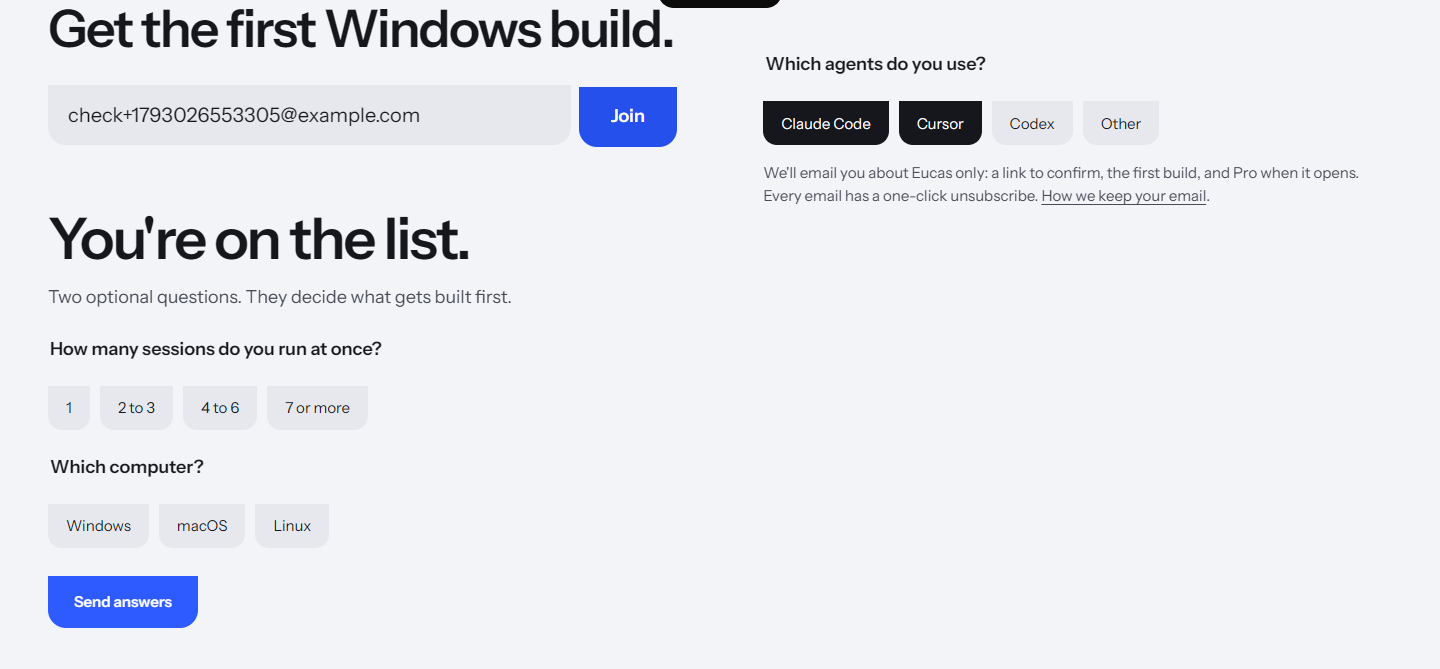
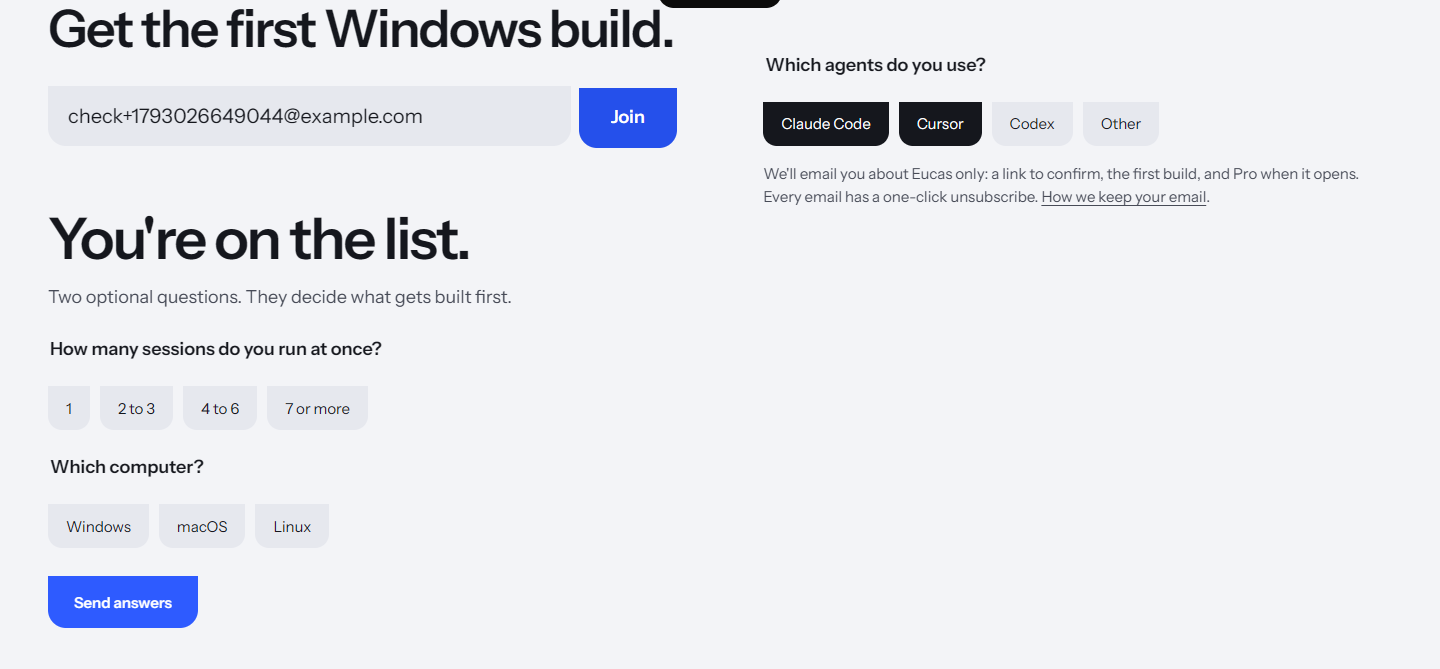
fix(landing): cut copy that repeats itself
- The promise sentence under the four limits (the list already says it).
- The locked rule band no longer lists the four again: "The four limits · Locked".
- "Your rules always decide first" once (Rules), "never writes code" once (hero), what the account holds once (the privacy line); the founders' FAQ answer keeps only what pricing doesn't say.

diff --git a/apps/landing/public/index.html b/apps/landing/public/index.html
@@ -88,7 +88,7 @@
 
 <!-- Proof: the notch's states, large, each on its own tile. -->
 <section class="states wrap" data-state="marker" aria-labelledby="states-title">
-  <ul class="board">
+  <ul class="board" data-ui>
     <li class="tile tile-head" data-rise><h2 id="states-title">Read your Euca at a glance.</h2></li>
     <li class="tile" data-rise><span class="tile-notch" data-ui aria-hidden="true"><span class="eyes" data-x="calm"><i></i><i></i></span></span><p><b>Calm.</b> Protected, nothing running. It follows your pointer and blinks.</p></li>
     <li class="tile" data-rise><span class="tile-notch" data-ui aria-hidden="true"><span class="eyes" data-x="focused"><i></i><i></i></span></span><p><b>Focused.</b> Your sessions are working. The eyes read left to right.</p></li>
@@ -136,7 +136,6 @@
         <li>A send</li>
         <li>A payment</li>
       </ul>
-      <p class="promise" data-rise>Eucas never auto-approves a delete, a push to your default branch, a send or a payment, and no rule can change that.</p>
       <p data-rise>Setup locks these four limits with one Windows admin prompt, where no agent or repo can change them. If a session starts deleting files in bulk, the tripwire stops it and shows you what went and how to get it back.</p>
     </div>
     <figure class="trip" data-rise>
@@ -172,8 +171,8 @@
     </li>
     <li class="band band-locked" data-band="ink">
       <div class="wrap band-in">
-        <div><p class="band-say">Ask me before a delete, a push, a send or a payment</p><p class="band-then" data-locked-text>Locked. No rule can switch this off.</p></div>
-        <button type="button" class="switch" role="switch" aria-checked="true" aria-disabled="true" aria-label="Ask before a delete, a push to your default branch, a send or a payment. Locked." data-locked><i><svg viewBox="0 0 16 16" aria-hidden="true"><rect x="3.5" y="7" width="9" height="6.5" rx="1.5"/><path d="M5.5 7V5.2a2.5 2.5 0 0 1 5 0V7"/></svg></i></button>
+        <div><p class="band-say">The four limits</p><p class="band-then" data-locked-text>Locked. No rule can switch them off.</p></div>
+        <button type="button" class="switch" role="switch" aria-checked="true" aria-disabled="true" aria-label="The four limits. Locked." data-locked><i><svg viewBox="0 0 16 16" aria-hidden="true"><rect x="3.5" y="7" width="9" height="6.5" rx="1.5"/><path d="M5.5 7V5.2a2.5 2.5 0 0 1 5 0V7"/></svg></i></button>
       </div>
     </li>
   </ul>
@@ -192,7 +191,7 @@
       <figcaption>Setup shows you this with a message from your own sessions. Settings always shows it too.</figcaption>
     </figure>
     <ul class="facts" data-rise>
-      <li><b>The supervisor is always on and can't be switched off.</b> Your rules always decide first.</li>
+      <li><b>The supervisor is always on and can't be switched off.</b></li>
       <li><b>It never approves a tool call.</b> It can nudge a stopped session on, answer from your rules, or ask you.</li>
       <li><b>Its help is counted monthly.</b> When it runs out, your Euca asks you more often until the meter resets.</li>
     </ul>
@@ -231,8 +230,7 @@
 <section class="know wrap" data-state="rest" aria-labelledby="know-title">
   <h2 id="know-title" data-rise>Before you install.</h2>
   <dl class="know-list" data-rise>
-    <div><dt>An agentsitter, not a coder</dt><dd>Your Euca watches, guards and tells you what needs you. It never writes code or does your project's work.</dd></div>
-    <div><dt>A Eucas account, by email</dt><dd>You sign in with your email and a 6-digit code, no password. Your account holds only your email, your plan and how much supervisor help you've used.</dd></div>
+    <div><dt>A Eucas account, by email</dt><dd>You sign in with your email and a 6-digit code, no password.</dd></div>
     <div><dt>Your Claude login stays yours</dt><dd>Eucas never sees or stores your Claude credentials. It works beside Claude Code through its hooks and the history already on your PC.</dd></div>
     <div><dt>Claude Code, for now</dt><dd>Claude Code sessions only, in a terminal, the desktop app or VS Code. What comes next depends on the waitlist's answers.</dd></div>
     <div><dt>Windows first, unsigned</dt><dd>The first build isn't code-signed yet, so Windows will say "Unknown publisher". Each installer's SHA-256 is published so you can check it.</dd></div>
@@ -295,7 +293,7 @@
   <ul class="cards" data-faq>
     <li class="card"><h3><button type="button" aria-expanded="true" aria-controls="a1" id="q1"><span class="tab">Today</span>Can I use it today?</button></h3><div class="a" id="a1" role="region" aria-labelledby="q1"><p>Not yet. Eucas is in development. The waitlist gets the first Windows build, and you'll hear from us when it's ready to install.</p></div></li>
     <li class="card"><h3><button type="button" aria-expanded="false" aria-controls="a4" id="q4"><span class="tab">Agents</span>Does it work with Cursor or Codex?</button></h3><div class="a" id="a4" role="region" aria-labelledby="q4" hidden><p>Not yet. Claude Code comes first. Which one follows depends on the answers to "Which agents do you use?" in the waitlist.</p></div></li>
-    <li class="card"><h3><button type="button" aria-expanded="false" aria-controls="a5" id="q5"><span class="tab">Pro</span>What does the founders' price mean?</button></h3><div class="a" id="a5" role="region" aria-labelledby="q5" hidden><p>Pro is $20 a month. The first 200 people who pay keep $15 a month for life; it belongs to your Eucas account, not your PC. Free stays free.</p></div></li>
+    <li class="card"><h3><button type="button" aria-expanded="false" aria-controls="a5" id="q5"><span class="tab">Pro</span>What does the founders' price mean?</button></h3><div class="a" id="a5" role="region" aria-labelledby="q5" hidden><p>It belongs to your Eucas account, not your PC, for as long as you keep Pro. Free stays free.</p></div></li>
     <li class="card"><h3><button type="button" aria-expanded="false" aria-controls="a6" id="q6"><span class="tab">Computers</span>macOS or Linux?</button></h3><div class="a" id="a6" role="region" aria-labelledby="q6" hidden><p>Windows first. Tell us your computer after you join the waitlist: it's how we decide which one is next.</p></div></li>
   </ul>
 </section>

diff --git a/apps/landing/public/styles.css b/apps/landing/public/styles.css
@@ -287,8 +287,7 @@ h3 { font-size: var(--t-m); font-weight: 600; letter-spacing: -0.015em; line-hei
 .limits { margin-top: 40px; display: grid; gap: 10px; }
 .limits li { display: flex; align-items: center; gap: 16px; font-size: var(--t-m); font-weight: 600; letter-spacing: -0.015em; }
 .limits li::before { content: ""; flex: none; width: 30px; height: 12px; background: var(--notch-eye); border-radius: 0 0 6px 6px; } /* the notch, at text size */
-.promise { margin-top: 40px; max-width: 36ch; font-size: var(--t-m); line-height: 1.35; }
-.never-copy > p:last-child { margin-top: 24px; max-width: 52ch; color: var(--notch-text-2); }
+.never-copy > p:last-child { margin-top: 40px; max-width: 52ch; color: var(--notch-text-2); }
 .trip { justify-self: center; width: min(400px, 100%); }
 .trip figcaption, .sent-shot figcaption { margin-top: 16px; font-size: var(--t-s); color: var(--muted); }
 .never .trip figcaption { color: var(--notch-text-2); }

diff --git a/apps/landing/public/main.js b/apps/landing/public/main.js
@@ -176,7 +176,7 @@
     sw.addEventListener("click", () => {
       if (sw.hasAttribute("data-locked")) {
         sw.classList.remove("nope"); void sw.offsetWidth; sw.classList.add("nope");
-        $("[data-locked-text]", band).textContent = "This one stays on. Your Euca asks you every time, whatever your rules say.";
+        $("[data-locked-text]", band).textContent = "These stay on. Your Euca asks you every time, whatever your rules say.";
         return;
       }
       sw.setAttribute("aria-checked", String(sw.getAttribute("aria-checked") !== "true"));
